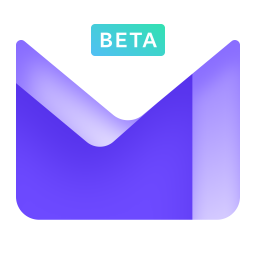
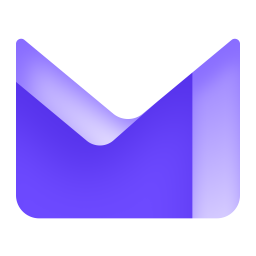
Proton Mail desktop is no longer in beta

diff --git a/protonmail/ReadMe.md b/protonmail/ReadMe.md
@@ -1,4 +1,4 @@
-# <img src="https://rawcdn.githack.com/TomGenco/au-packages/master/protonmail/protonmail.png" width="48" height="48"/> [Proton Mail desktop app](https://chocolatey.org/packages/protonmail) (Beta)
+# <img src="https://rawcdn.githack.com/TomGenco/au-packages/master/protonmail/protonmail.png" width="48" height="48"/> [Proton Mail desktop app](https://chocolatey.org/packages/protonmail)
 
 Official desktop application for Proton Mail and Proton Calendar.
 
@@ -21,7 +21,6 @@ Official desktop application for Proton Mail and Proton Calendar.
 - ICS files won’t open the app.
 
 ## Notes
-- **The beta version of the Proton Mail desktop app is restricted to anyone with a paid Proton Mail plan.**
 - The installer continues to execute after Chocolatey exits, and will flash on-screen for a brief moment
 - Does not seem to conflict with the Proton Mail Bridge package currently
 
